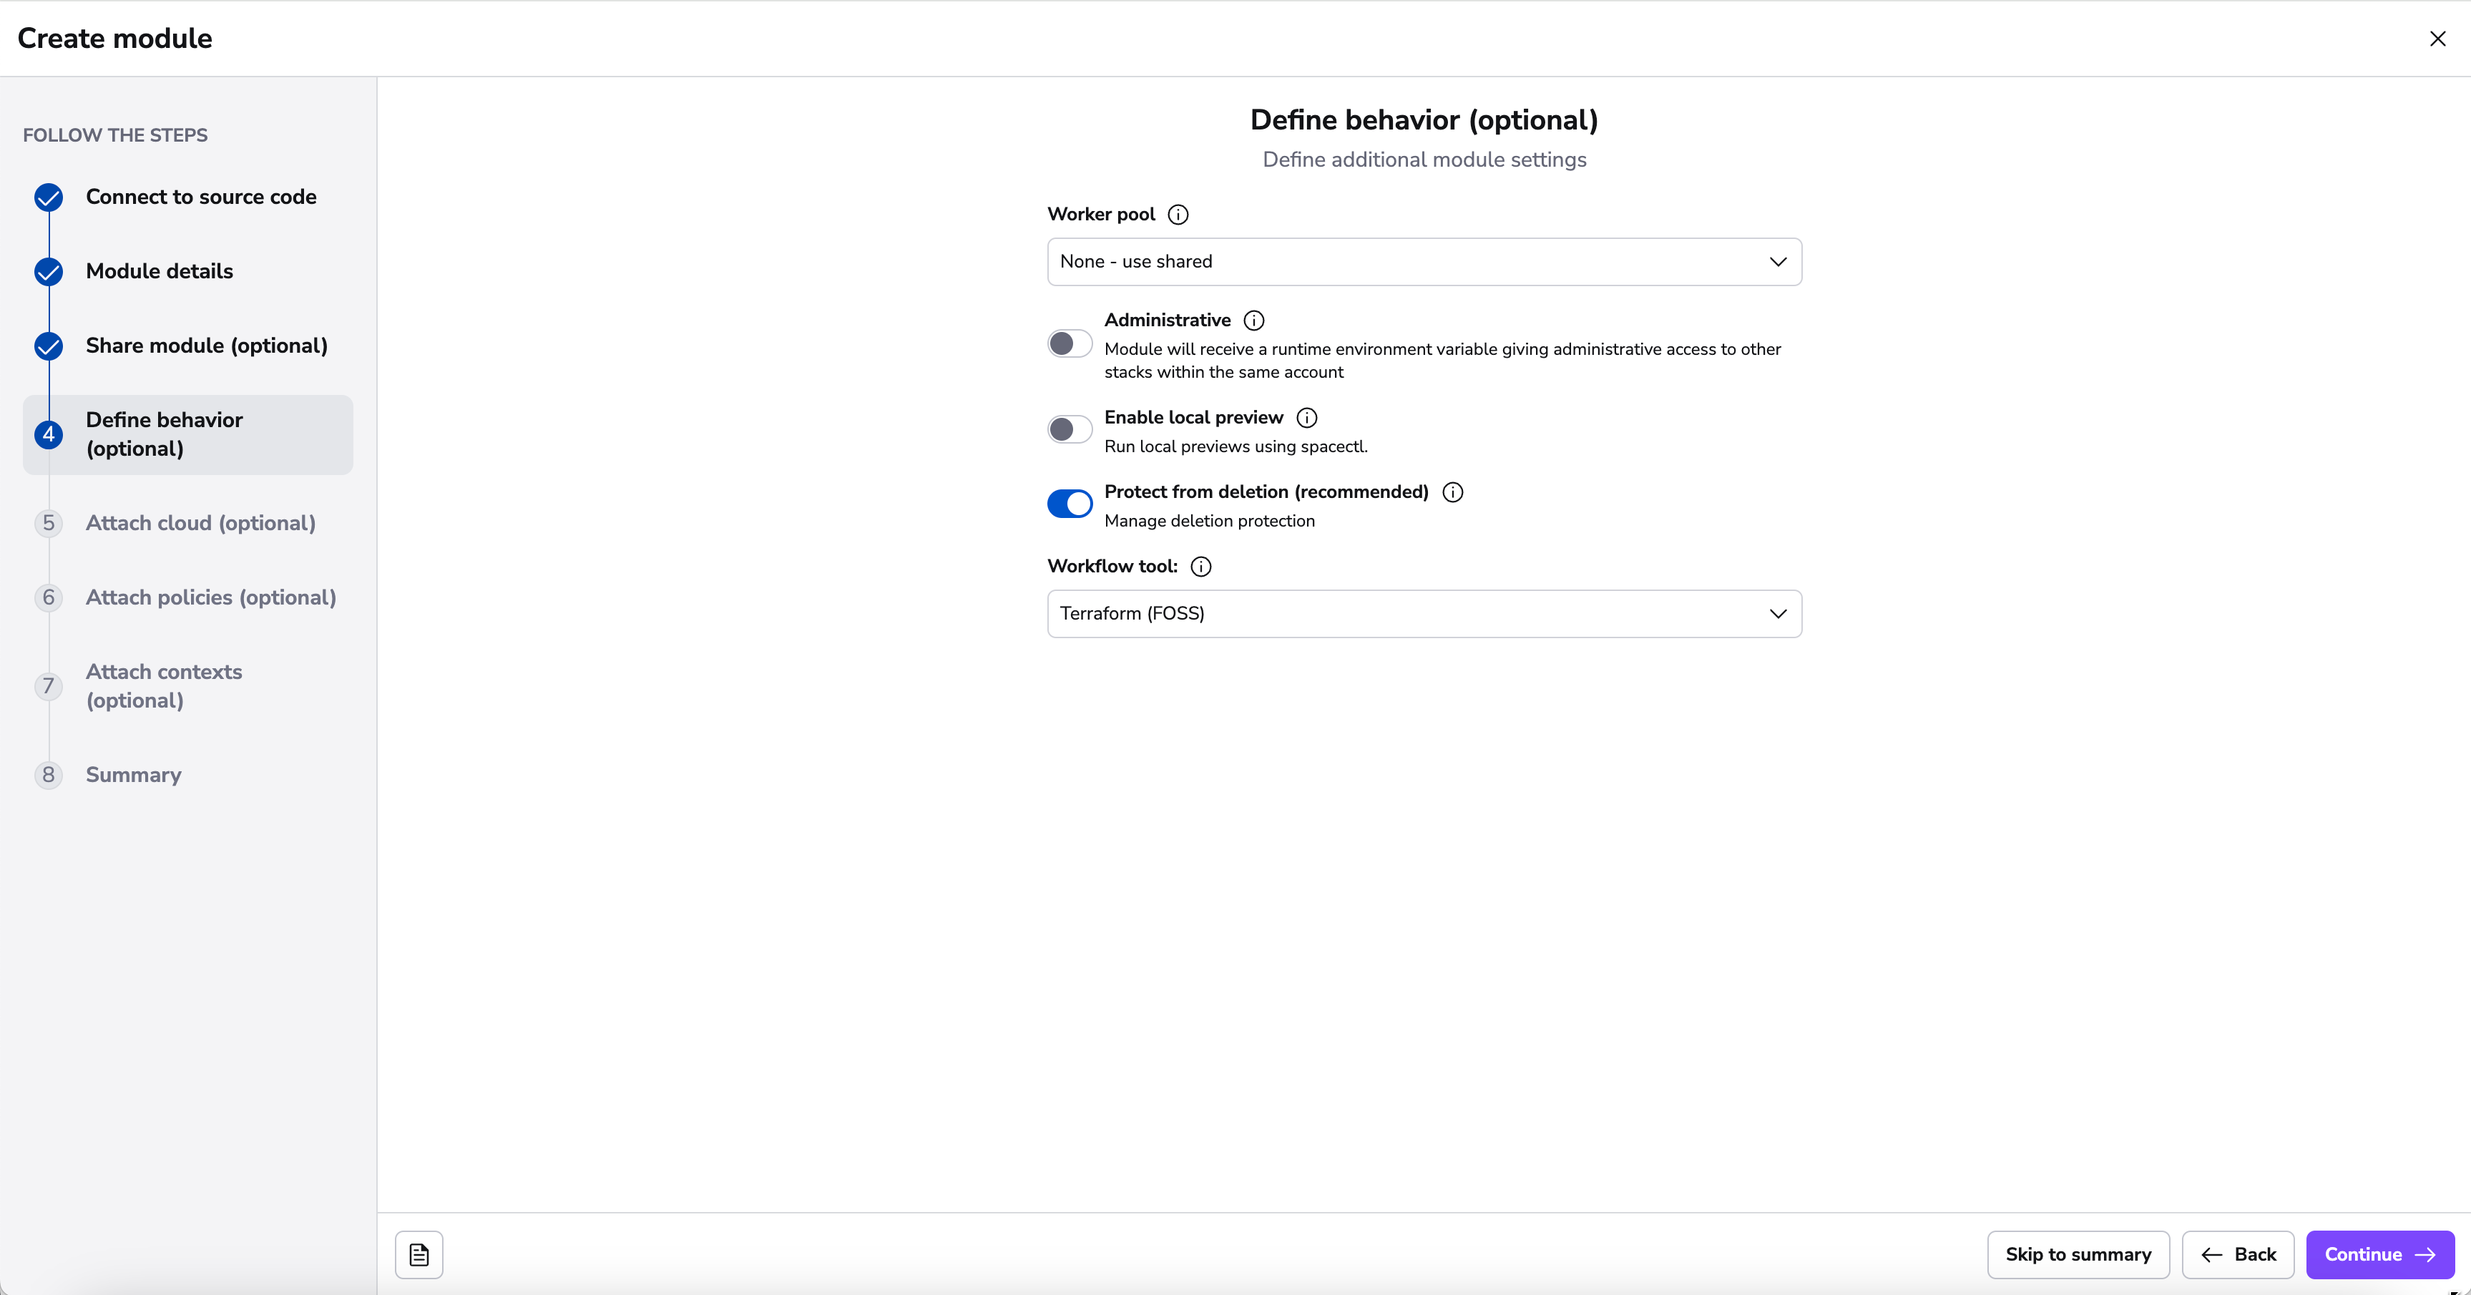
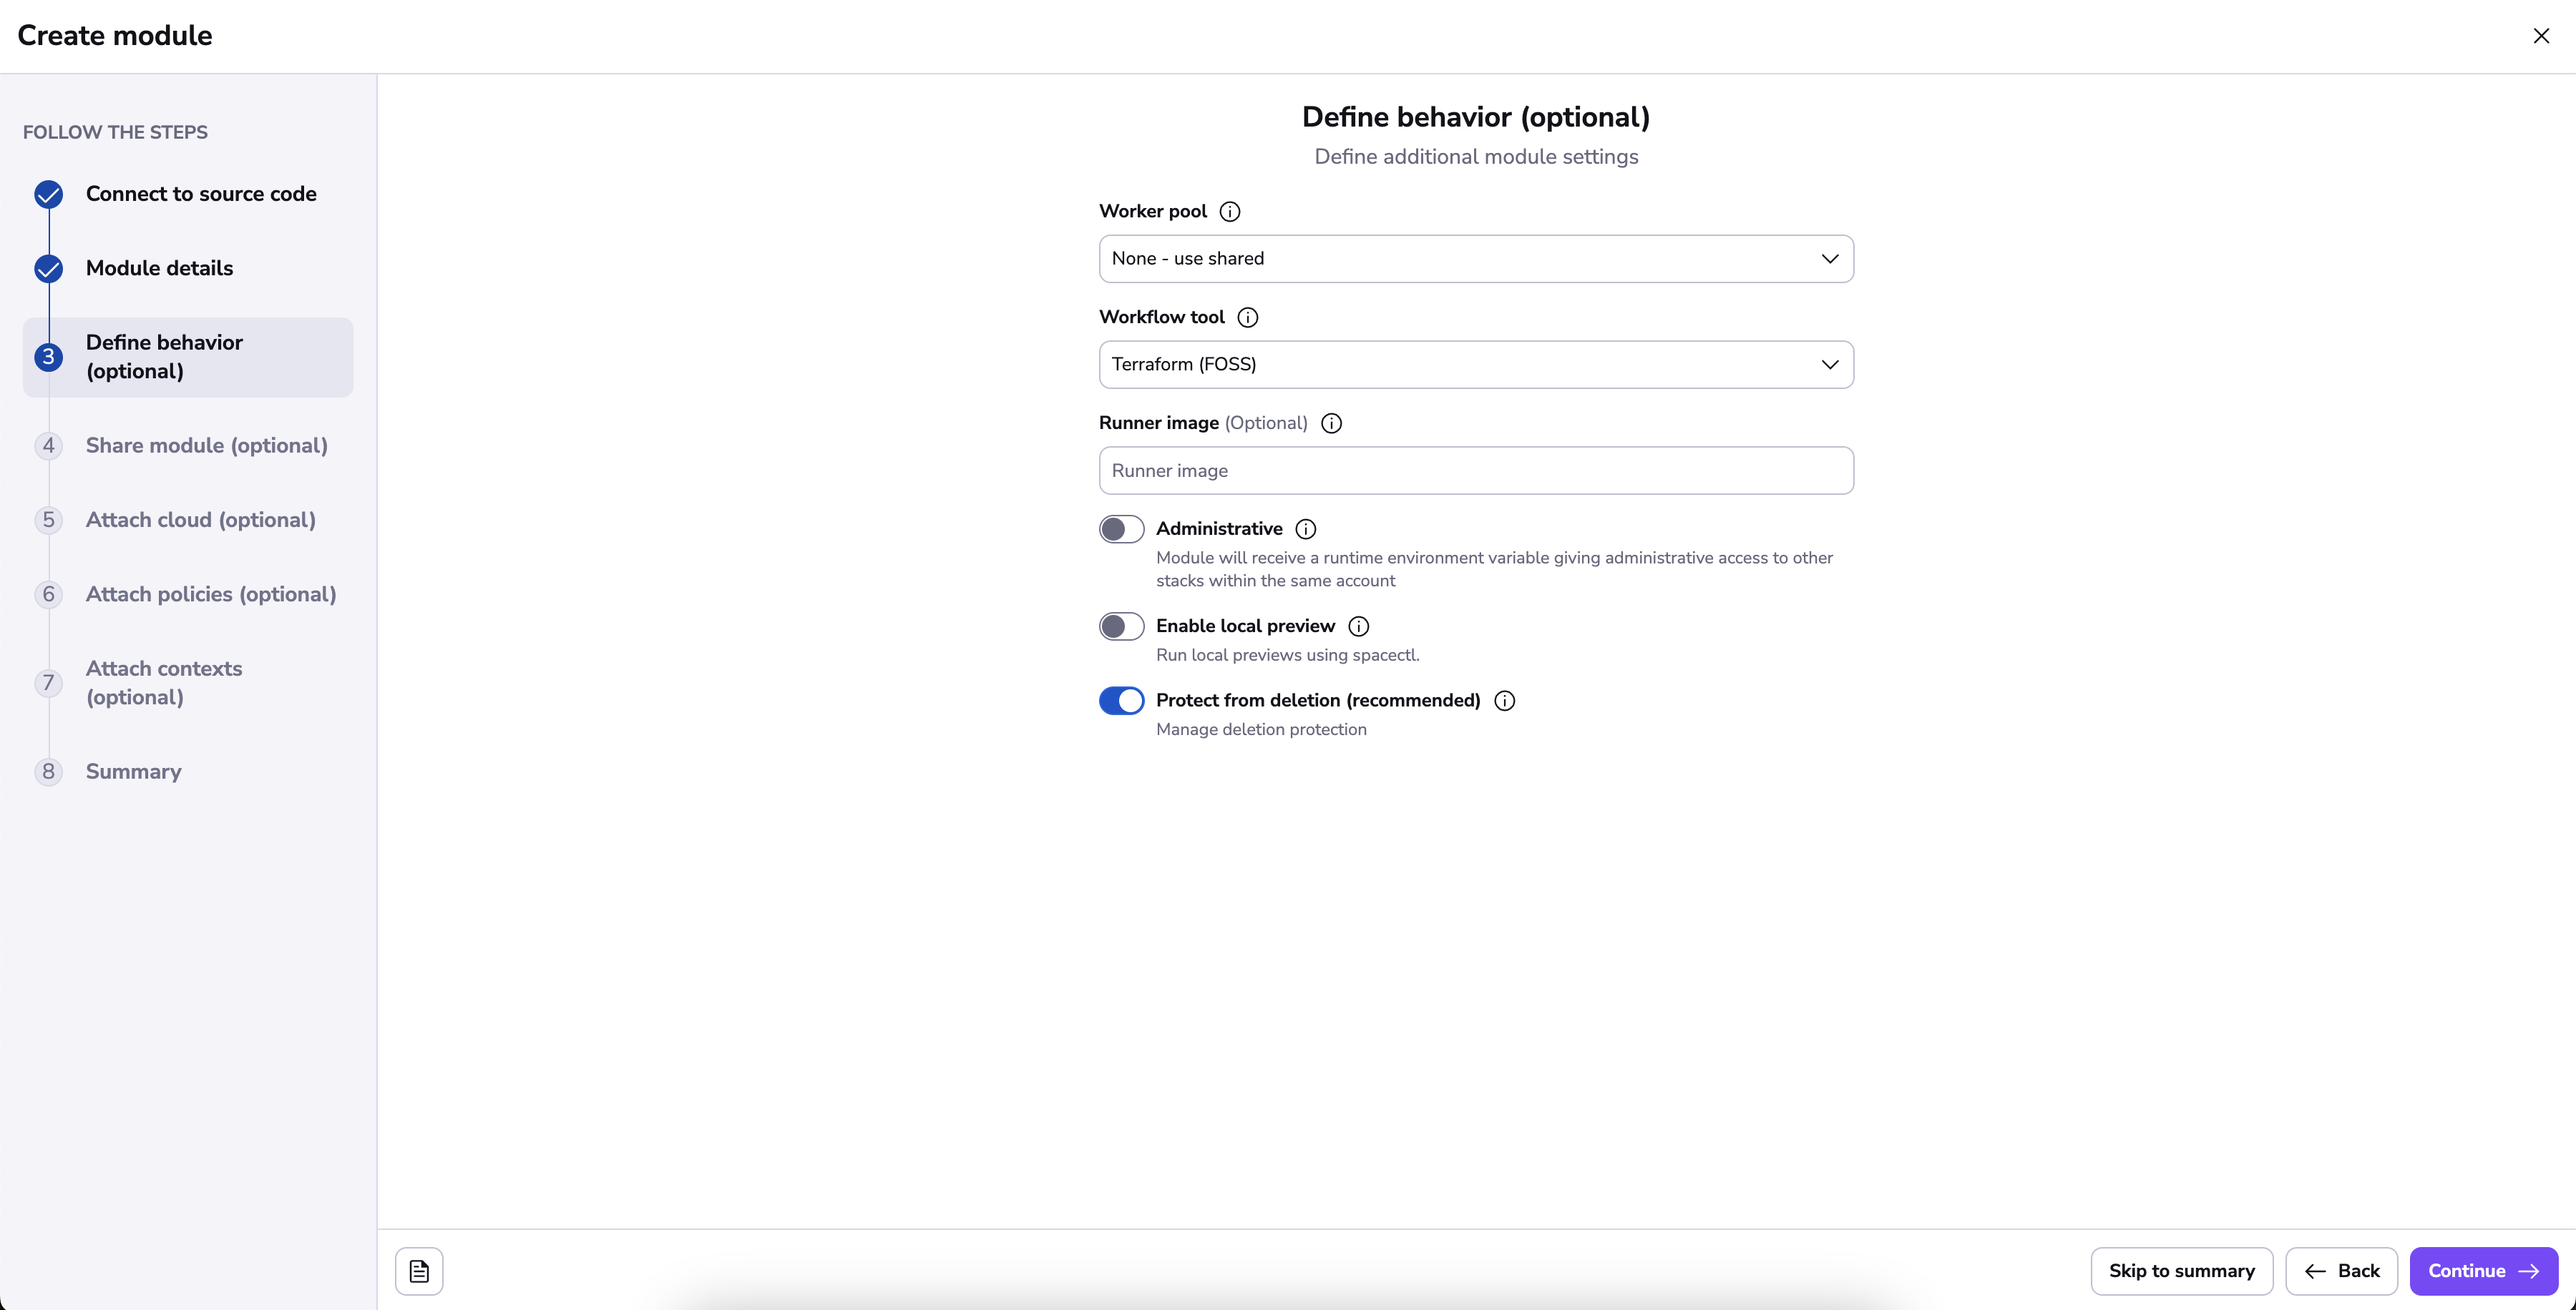
Extended module docs with runner image explanation

diff --git a/docs/vendors/terraform/module-registry.md b/docs/vendors/terraform/module-registry.md
@@ -120,10 +120,11 @@ In this step, you can share module with different Spacelift accounts, you just n
 In the behavior section there are few settings that you can set to make your module work in a specific way:
 
 - setting the [worker pool](../../concepts/worker-pools#using-worker-pools) to one you manage yourself makes sense if the module tests will be touching resources or accounts you don't want Spacelift to access directly. Plus, your private workers may have more bandwidth than the shared ones, so you may get feedback faster.
+- which tool to be used to execute the workflow commands. This can be an open source (FOSS) version of Terraform, OpenTofu or a custom tool.
+- a docker image used to process your module metadata (required if you want to use symbolic links in the module). You can specify your own image or use Spacelift's public one: `public.ecr.aws/spacelift/runner-terraform:latest`.
 - whether the module is [administrative](../../concepts/stack/stack-settings.md#administrative) (You will only need to set _administrative_ to `true` if your module manages Spacelift resources (and most likely it does not)),
 - whether or not to enable the local preview [spacectl](https://github.com/spacelift-io/spacectl){: rel="nofollow"} CLI feature;
 - whether or not to protect the module from deletion;
-- which tool to be used to execute the workflow commands. This can be an open source (FOSS) version of Terraform, OpenTofu or a custom tool.
 
 #### Attach Module Cloud Integration
 
